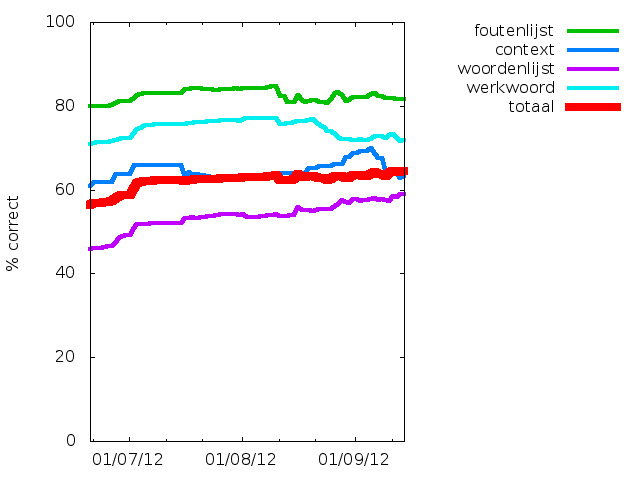
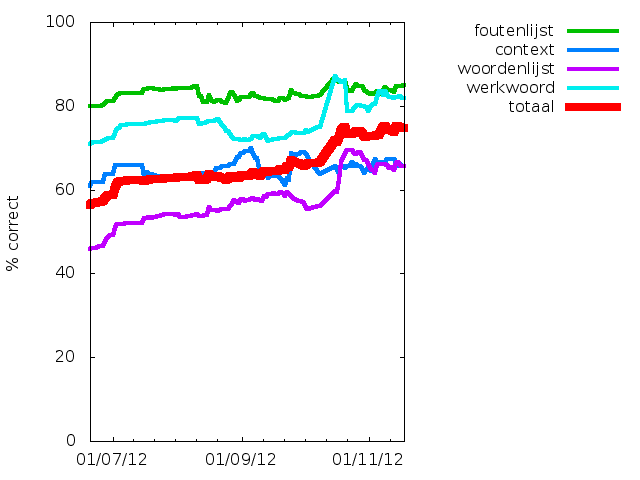
new attempt to update scores

diff --git a/webvalkuil/templates/about.html b/webvalkuil/templates/about.html
@@ -114,12 +114,12 @@ gemist: 55.9%
 <center>
 <p>
 <font size="+2">
-64.4%
+74.4%
 </font>
 </p>
 <p>
 <font size="+1" color="red">
-vals alarm: 35.6%
+vals alarm: 25.6%
 </font>
 </p>
 <p>
@@ -136,7 +136,7 @@ vals alarm: 35.6%
 <p>
 <b>Wat leren we daarvan</b>? Spellingcorrectie is moeilijk, en is
 daarom zo'n boeiend onderzoeksonderwerp. Valkuil.net mist meer dan de
-helft van de fouten en slaat in eenderde van de gevallen vals
+helft van de fouten en slaat in een kwart van de gevallen vals
 alarm. De vraag is wat erger is, en of we niet wat meer valse alarmen
 moeten toelaten zodat we wat meer echte fouten vinden. Wordt vervolgd...
 </p>
